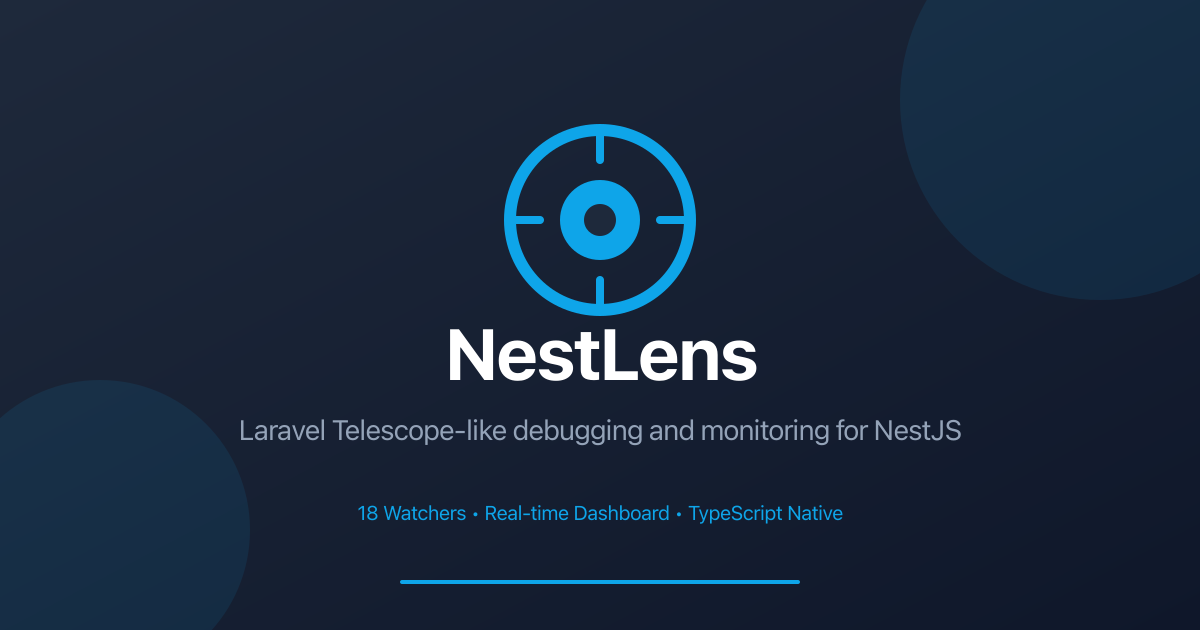
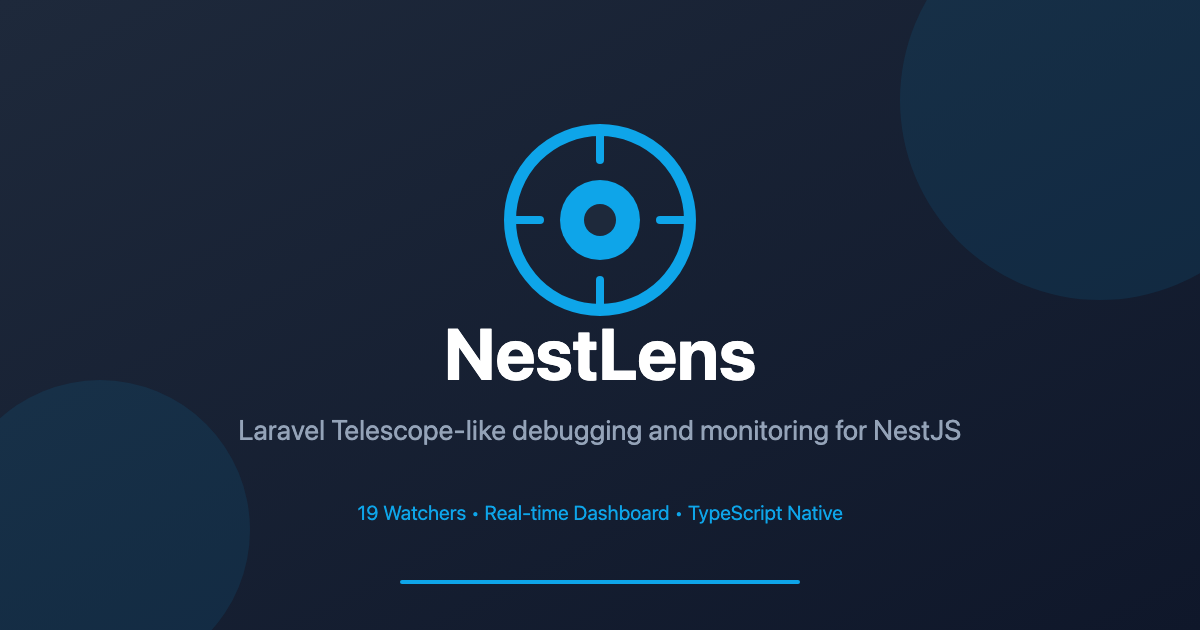
docs: the social card says 19 watchers, and dev.to gets a cover of its own
The Open Graph card every shared link previews still said "18 Watchers" long
after the intro was corrected — an image, so no text check reached it. The
SVG is fixed and the PNG re-rendered from it, and the consistency spec now
reads both cards' SVGs. dev.to shows covers at 1000×420, which would crop the
1200×630 card through the logo, so it gets its own at that size, served from
the docs site with the rest.

Changed region(s): [[0.37, 0.5127, 0.6475, 0.6032], [0.2158, 0.6635, 0.8017, 0.7238], [0.3083, 0.7841, 0.3392, 0.8444]]

diff --git a/src/__tests__/docs/consistency.spec.ts b/src/__tests__/docs/consistency.spec.ts
@@ -40,6 +40,20 @@ describe('Documentation consistency with code', () => {
       expect(intro).not.toMatch(/18 watchers/);
     });
 
+    /**
+     * The social card is the preview every shared link shows, and it said
+     * "18 Watchers" long after the intro was corrected: it is an image, so no
+     * text search over the docs reached it. The PNGs are rendered from these
+     * SVGs, so the SVGs are what to keep true.
+     */
+    it.each(['nestlens-social-card.svg', 'nestlens-devto-cover.svg'])(
+      '%s states the correct watcher count',
+      (file) => {
+        const svg = readFileSync(join(REPO_ROOT, 'docs', 'static', 'img', file), 'utf8');
+        expect(svg).toContain(`${watcherCount} Watchers`);
+      },
+    );
+
     it('basic-config.md lists every watcher key from the code', () => {
       const basicConfig = readDoc('configuration/basic-config.md');
       const missing = watcherKeys.filter((key) => !basicConfig.includes(`${key}:`));
